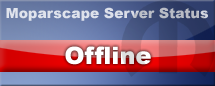
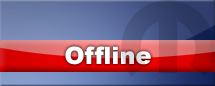
Draw header on status images dynamically as well

Changed region(s): [[0.0279, 0.0698, 0.9767, 0.2558]]

diff --git a/ss_sources/image_server.php b/ss_sources/image_server.php
@@ -60,7 +60,7 @@ function centerTtfString($image, $string, $font_size, $y, $font = null) {
 }
 
 function echoImage($online = -1, $text = 'Error!', $size_req = '') {
-    global $g_source_dir;
+    global $g_source_dir, $g_picture_banner;
 
     if ($online == 1)
         $file = $g_source_dir . '/fonts/online.png';
@@ -74,12 +74,15 @@ function echoImage($online = -1, $text = 'Error!', $size_req = '') {
 //	imagealphablending($im, true); // setting alpha blending on
 //	imagesavealpha($im, true); // save alphablending setting (important)
 
+    // Draw name up top
+    centerTtfString($im, $g_picture_banner, 12, 16);
+
 //	centerImageString($im, $text, 5, 20);
     // size 12, y 35 can be used with <= 27 chars
     centerTtfString($im, $text, 11, 34);
 
     // draw SERVER_NAME at bottom
-    centerTtfString($im, $_SERVER['SERVER_NAME'], 9, 82, $g_source_dir . '/fonts/arial_bold.ttf');
+    centerTtfString($im, $_SERVER['SERVER_NAME'], 9, 82);
 
     if ($size_req != '') {
 

diff --git a/ss_sources/copy_edit_me.php b/ss_sources/copy_edit_me.php
@@ -26,7 +26,7 @@ if (!defined('SS_PAGE'))
 //error_reporting(E_ALL);
 
 # you need to set these regardless
-global $g_source_dir, $g_sql_host, $g_sql_user, $g_sql_pass, $g_sql_db, $g_versions, $g_default_port, $g_theme, $g_img_dir, $g_admin_contact, $g_checker_ip;
+global $g_source_dir, $g_sql_host, $g_sql_user, $g_sql_pass, $g_sql_db, $g_versions, $g_default_port, $g_theme, $g_img_dir, $g_admin_contact, $g_checker_ip, $g_picture_banner;
 # path to ss_sources
 $g_source_dir = './ss_sources';
 $g_img_dir = './images';
@@ -41,6 +41,7 @@ $g_default_port = 43594;
 $g_admin_contact = '<a href="/smf/index.php?action=profile;u=youruid">yourname</a>';
 # IP address the ServerChecker application connects from
 $g_checker_ip = '69.39.224.55';
+$g_picture_banner = 'Server Status';
 
 define('SS_PAGE', 1);
 
